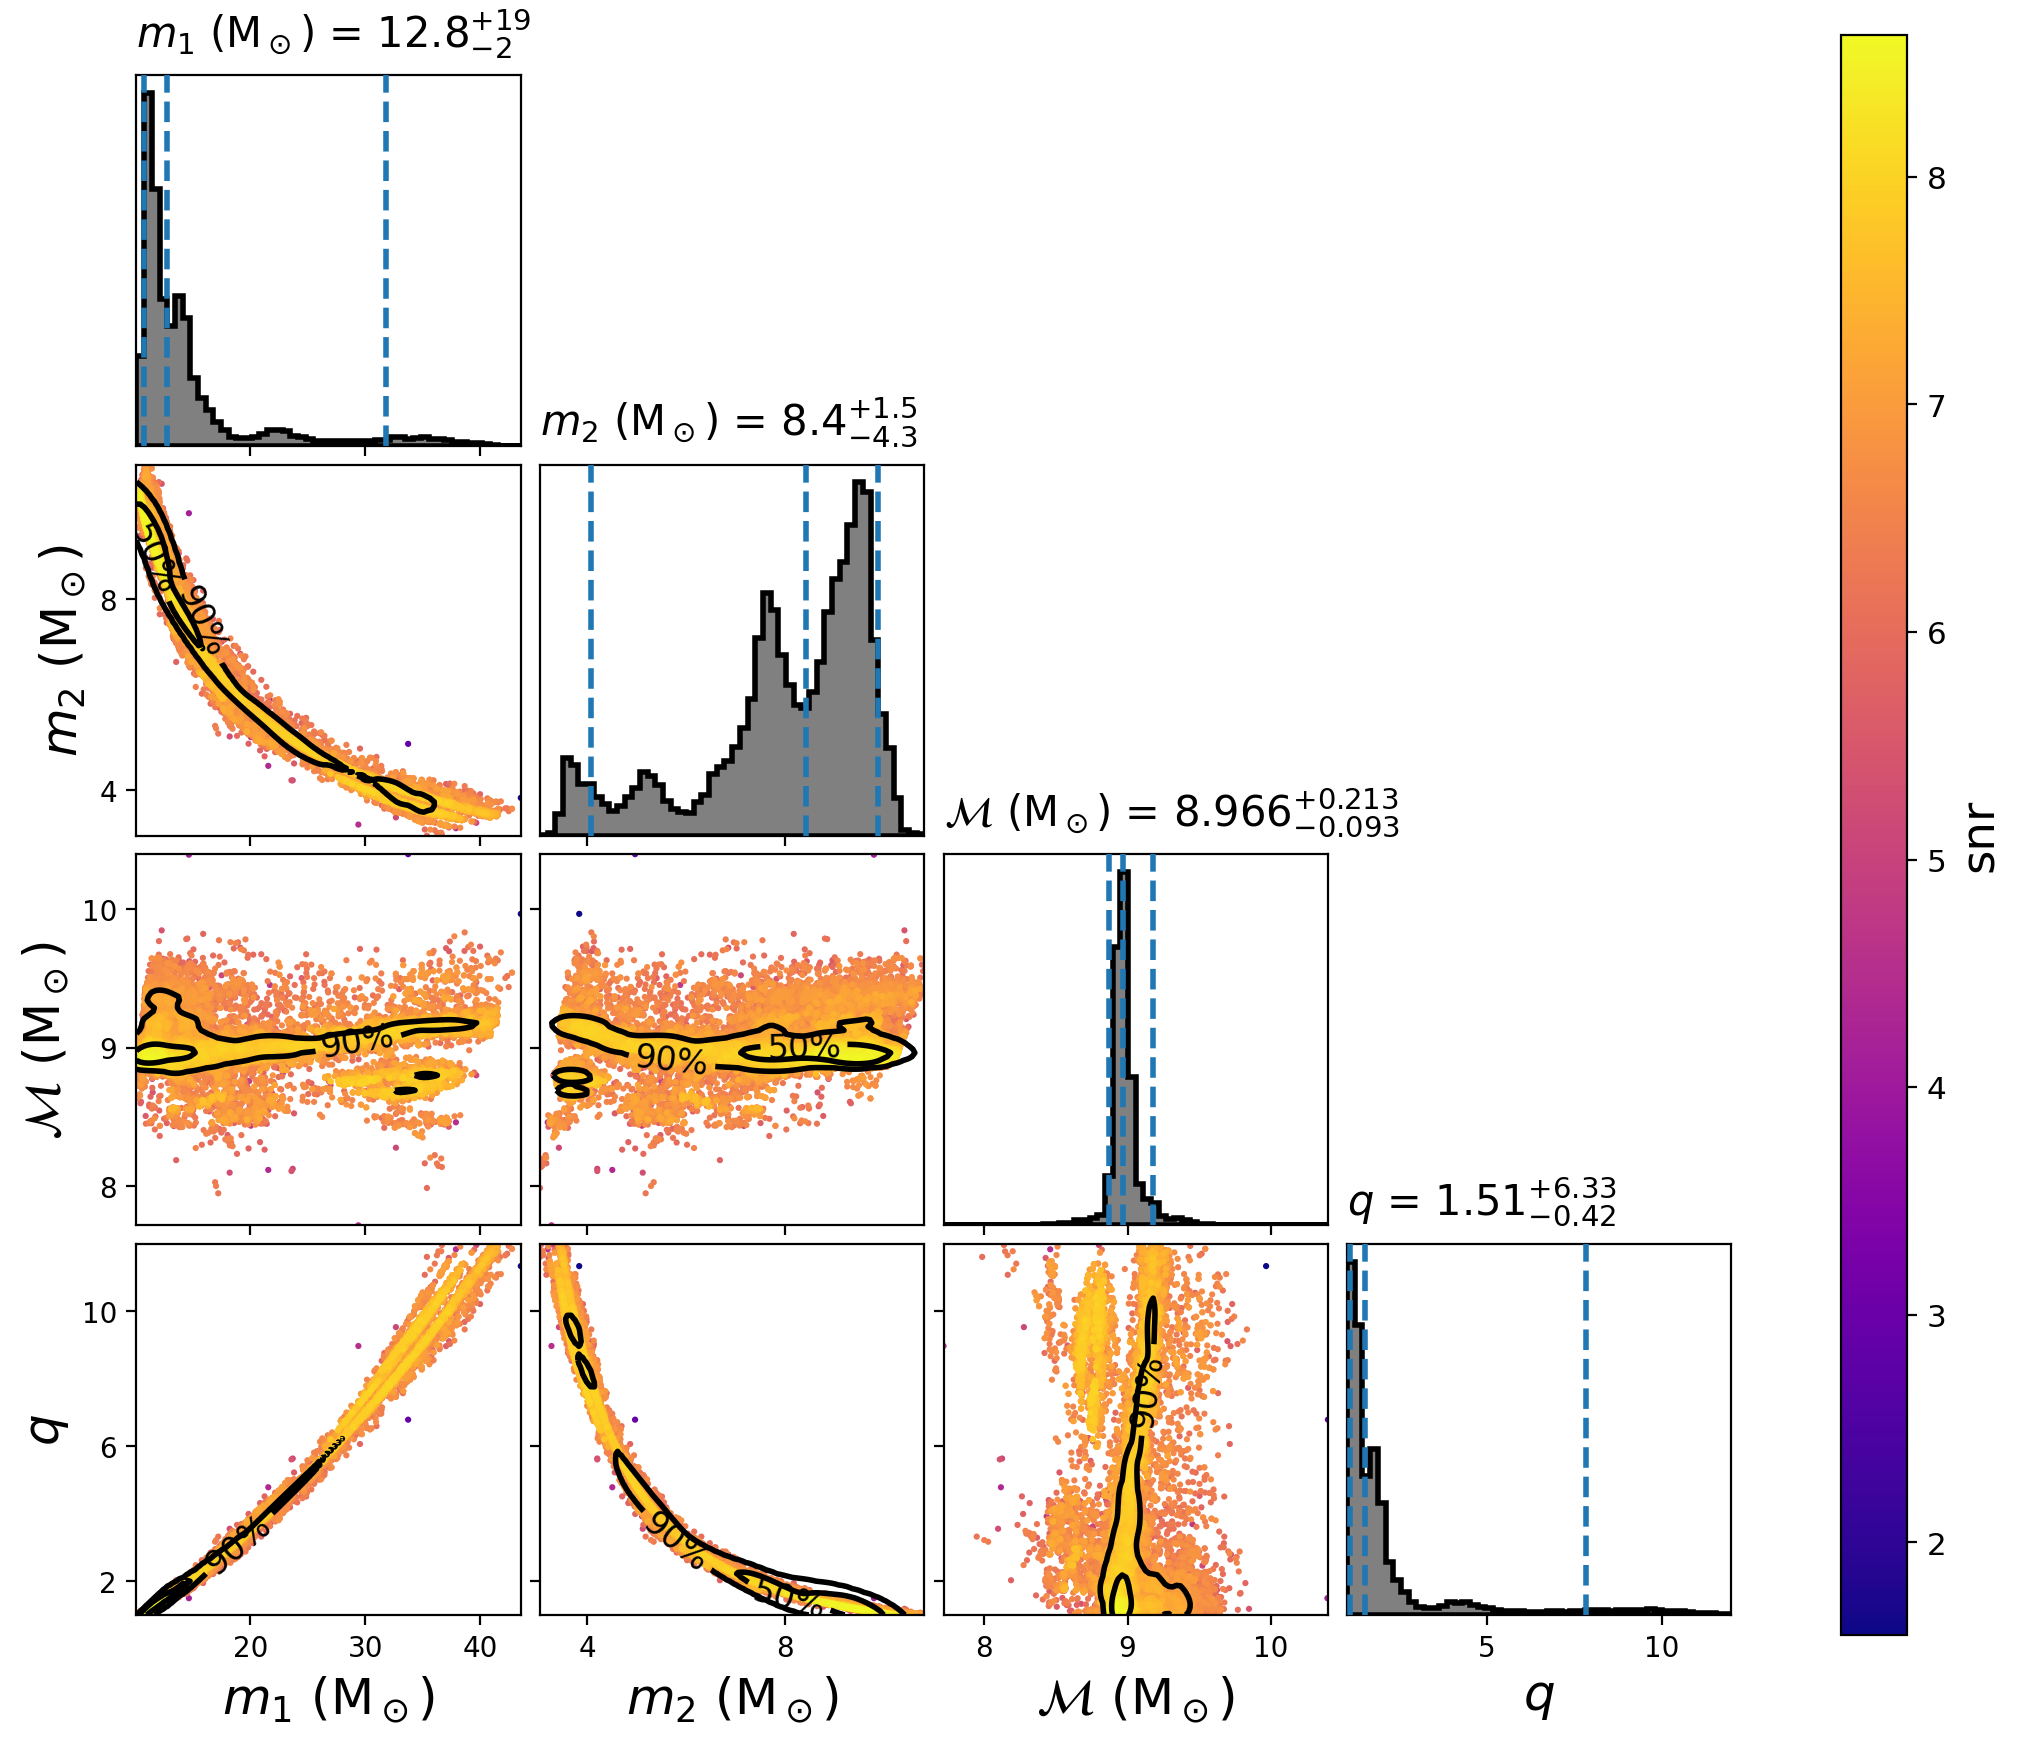
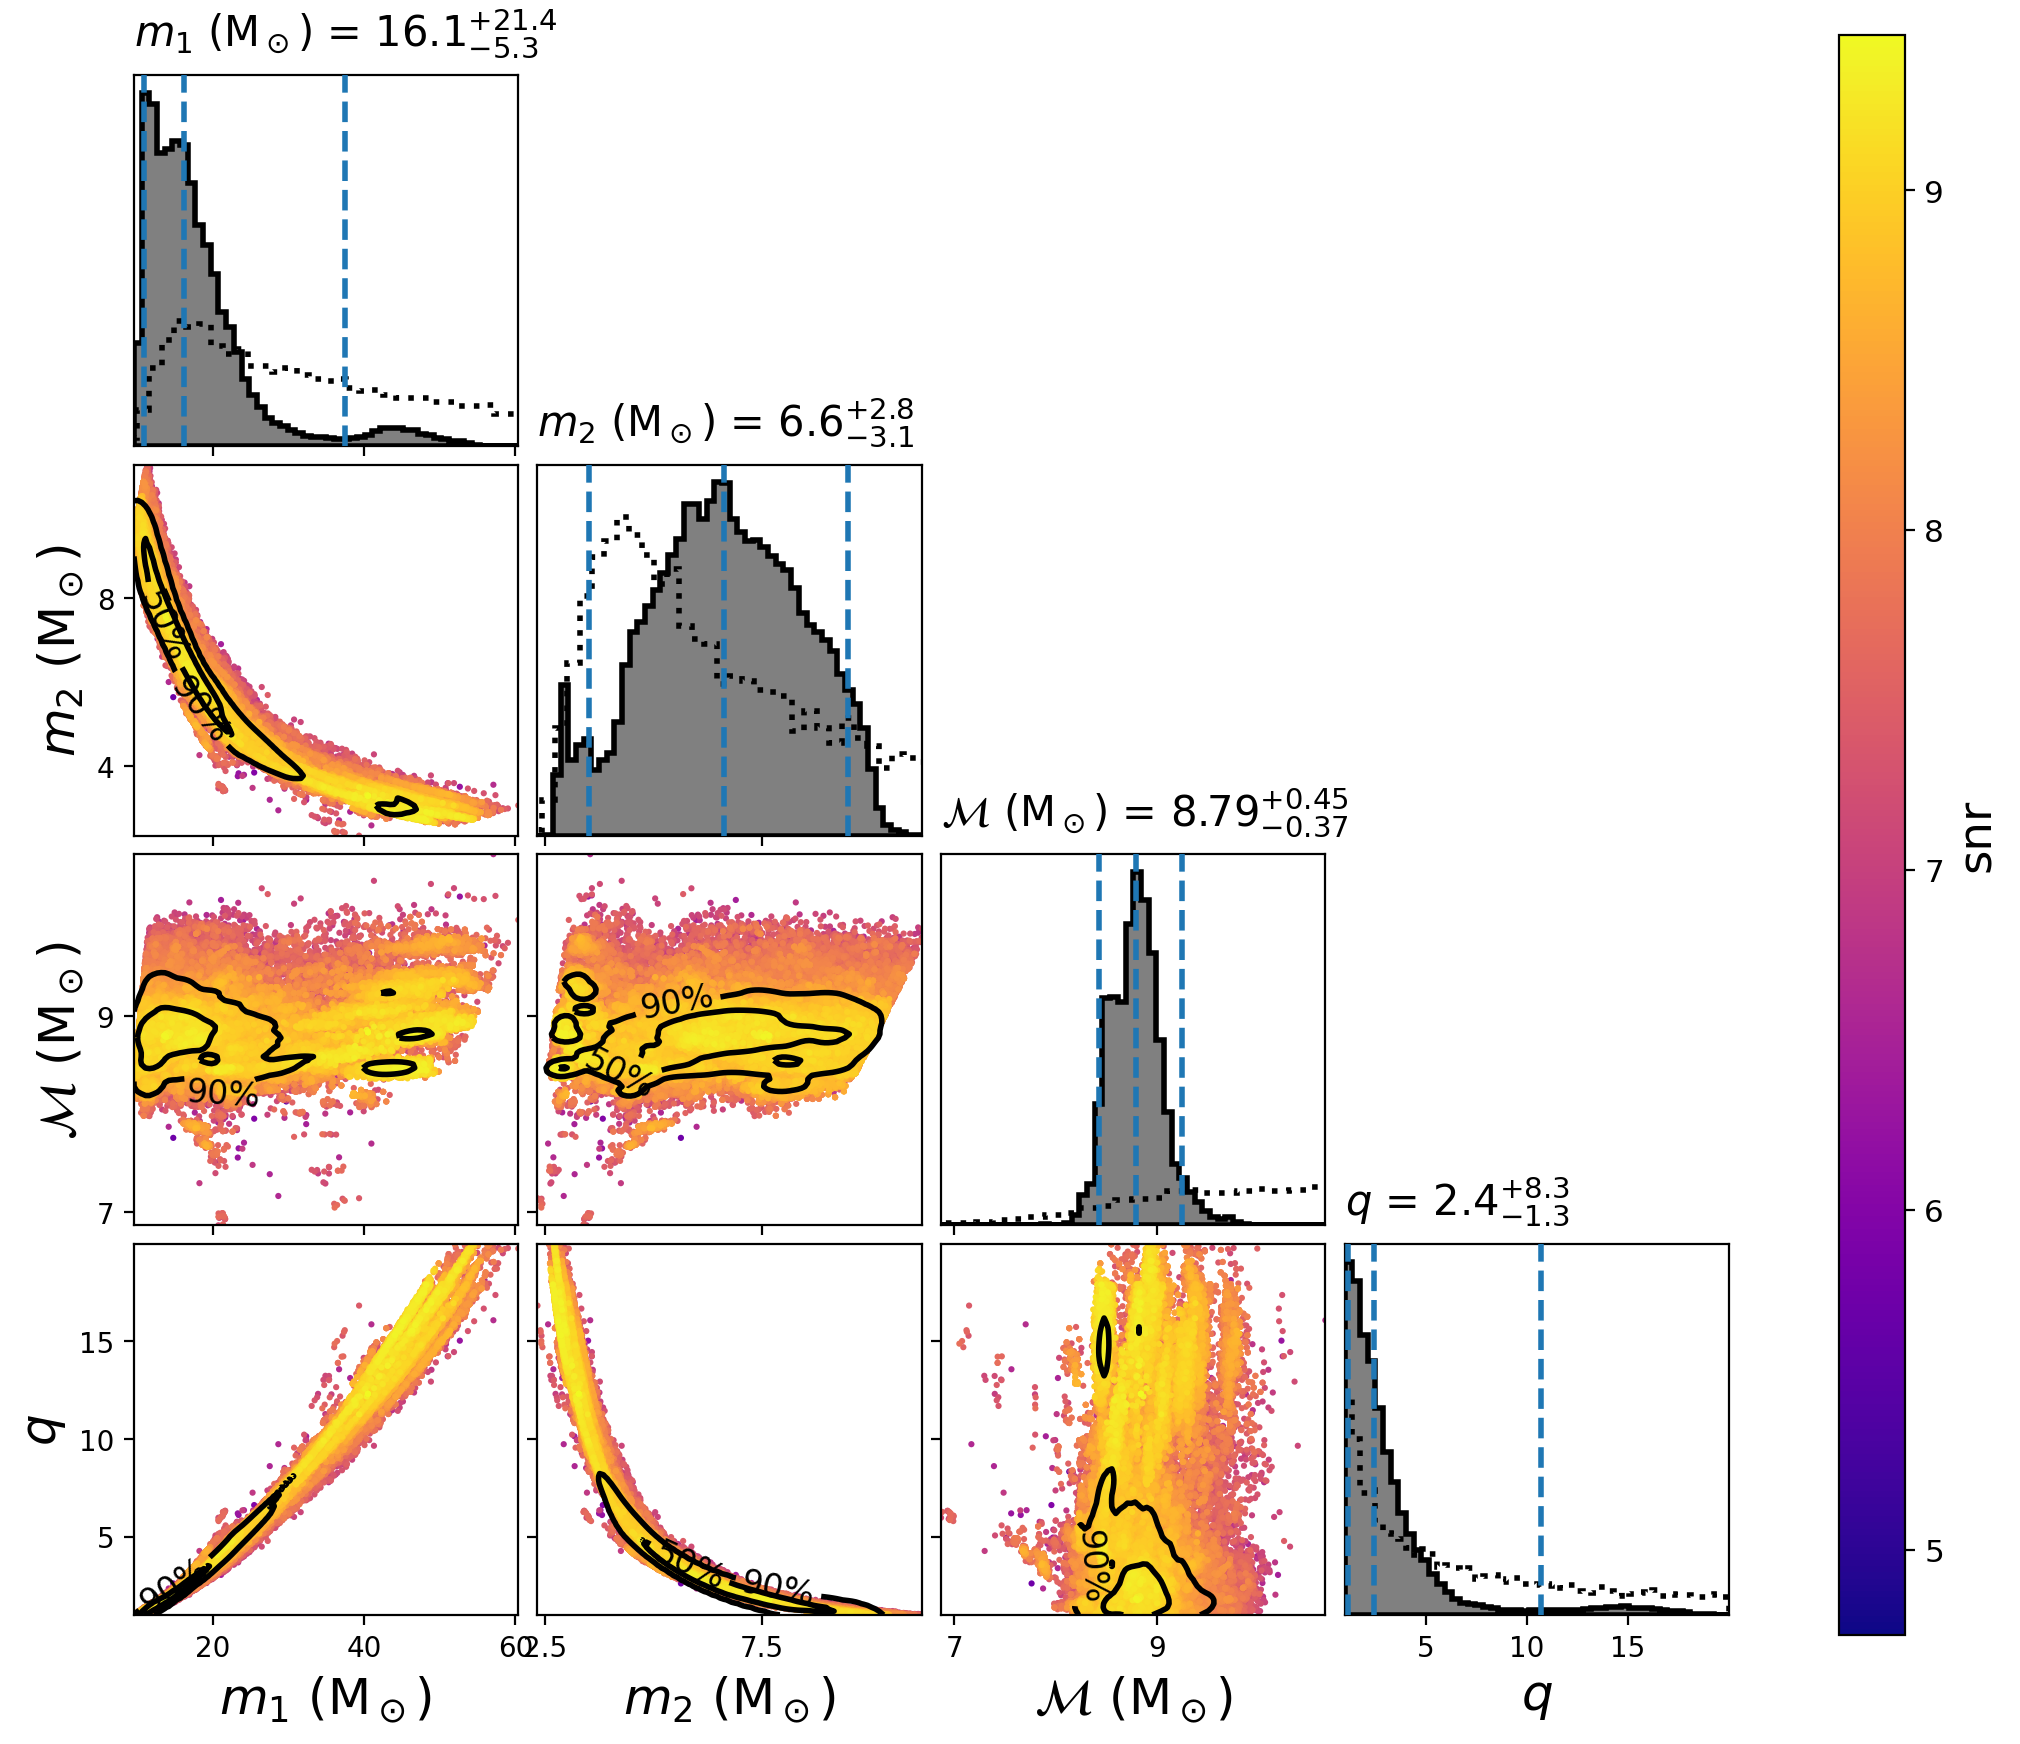
modified GW190725 plots

diff --git a/posteriors/H1L1V1-TABLE_SUMMARY_GW190725_174728-1126259200-400.html b/posteriors/H1L1V1-TABLE_SUMMARY_GW190725_174728-1126259200-400.html
@@ -1,10 +1,10 @@
-<div class=pycbc-meta key="cmd" value="/work/shilpa.kastha/src/3_ogc/pycbc/bin/pycbc_inference_table_summary --input-file H1L1V1-EXTRACT_POSTERIOR_GW190725_174728-1126259200-400.hdf --output-file H1L1V1-TABLE_SUMMARY_GW190725_174728-1126259200-400.html --parameters srcmass1 srcmass2 srcmchirp q_from_mass1_mass2(srcmass1, srcmass2):q chi_eff chi_p ra dec delta_tc distance redshift snr_from_loglr(loglikelihood-lognl):SNR --print-metadata trigger_time:$t_0$ analyzed_detectors:Detectors"></div><div class=pycbc-meta key="title" value="Parameter Estimates"></div><div class=pycbc-meta key="caption" value="Summary of parameter estimates. The 90-percent credible interval is the 50th +/- 95th/5th percentiles. The maximum posterior parameters are the parameters with the largest likelihood * prior. The maximum likelihood parameters are the parameters with the largest likelihood."></div><div class=pycbc-meta key="version" value="Version: 0.0a8146
+<div class=pycbc-meta key="cmd" value="/work/sumit.kumar/src/ve/python3.7/pycbc-dev/bin/pycbc_inference_table_summary --input-file H1L1V1-EXTRACT_POSTERIOR_GW190725_172728_H1_FLOW_41HZ_IMRPHENOMXPHM_NLIVE_20K_MPI-1126259200-400.hdf --output-file H1L1V1-TABLE_SUMMARY_GW190725_172728_H1_FLOW_41HZ_IMRPHENOMXPHM_NLIVE_20K_MPI-1126259200-400.html --parameters srcmass1 srcmass2 srcmchirp q_from_mass1_mass2(srcmass1, srcmass2):q chi_eff chi_p ra dec delta_tc distance redshift snr_from_loglr(loglikelihood-lognl):SNR --print-metadata trigger_time:$t_0$ analyzed_detectors:Detectors"></div><div class=pycbc-meta key="title" value="Parameter Estimates"></div><div class=pycbc-meta key="caption" value="Summary of parameter estimates. The 90-percent credible interval is the 50th +/- 95th/5th percentiles. The maximum posterior parameters are the parameters with the largest likelihood * prior. The maximum likelihood parameters are the parameters with the largest likelihood."></div><div class=pycbc-meta key="version" value="Version: 0.0a8165
 Branch: master
 Tag: None
-Id: 18f300e34b02cd197bdce4c4c7714fcb8b790794
+Id: cfc9de02b433e75794937cfdd634602fd9470832
 Builder: Unknown User &lt;&gt;
-Build date: 2021-06-02 09:53:35 +0000
-Repository status is UNCLEAN: Modified working tree"></div>
+Build date: 2021-06-23 12:03:02 +0000
+Repository status is CLEAN: All modifications committed"></div>
 <script type="text/x-mathjax-config">
   MathJax.Hub.Config({tex2jax: {inlineMath: [['$','$']]}});
 </script>
@@ -34,13 +34,13 @@ Repository status is UNCLEAN: Modified working tree"></div>
                     $m_1^{\rm{src}}~(\mathrm{M}_\odot)$
                 </td>
                 <td>
-                    $10.7^{+16.1}_{-1.5}$
+                    $13.4^{+17.4}_{-4.4}$
                 </td>
                 <td>
                     --
                 </td>
                 <td>
-                    $10$
+                    $34.8$
                 </td>
             </tr>
             <tr>
@@ -48,13 +48,13 @@ Repository status is UNCLEAN: Modified working tree"></div>
                     $m_2^{\rm{src}}~(\mathrm{M}_\odot)$
                 </td>
                 <td>
-                    $7^{+1.8}_{-3.6}$
+                    $5.5^{+2.4}_{-2.6}$
                 </td>
                 <td>
                     --
                 </td>
                 <td>
-                    $8.6$
+                    $2.8$
                 </td>
             </tr>
             <tr>
@@ -62,13 +62,13 @@ Repository status is UNCLEAN: Modified working tree"></div>
                     $\mathcal{M}^{\rm{src}}~(\mathrm{M}_\odot)$
                 </td>
                 <td>
-                    $7.72^{+0.44}_{-0.71}$
+                    $7.28^{+0.55}_{-0.46}$
                 </td>
                 <td>
                     --
                 </td>
                 <td>
-                    $8.11$
+                    $7.59$
                 </td>
             </tr>
             <tr>
@@ -76,13 +76,13 @@ Repository status is UNCLEAN: Modified working tree"></div>
                     $q$
                 </td>
                 <td>
-                    $1.51^{+6.33}_{-0.42}$
+                    $2.4^{+8.3}_{-1.3}$
                 </td>
                 <td>
                     --
                 </td>
                 <td>
-                    $1.16$
+                    $12.3$
                 </td>
             </tr>
             <tr>
@@ -90,13 +90,13 @@ Repository status is UNCLEAN: Modified working tree"></div>
                     $\chi_\mathrm{eff}$
                 </td>
                 <td>
-                    $-0.069^{+0.438}_{-0.095}$
+                    $-0.02^{+0.48}_{-0.35}$
                 </td>
                 <td>
                     --
                 </td>
                 <td>
-                    $-0.154$
+                    $0.53$
                 </td>
             </tr>
             <tr>
@@ -104,13 +104,13 @@ Repository status is UNCLEAN: Modified working tree"></div>
                     $\chi_p$
                 </td>
                 <td>
-                    $0.44^{+0.39}_{-0.34}$
+                    $0.39^{+0.44}_{-0.28}$
                 </td>
                 <td>
                     --
                 </td>
                 <td>
-                    $0.85$
+                    $0.45$
                 </td>
             </tr>
             <tr>
@@ -118,13 +118,13 @@ Repository status is UNCLEAN: Modified working tree"></div>
                     $\alpha$
                 </td>
                 <td>
-                    $2.5^{+3}_{-1.1}$
+                    $4.94^{+0.60}_{-4.67}$
                 </td>
                 <td>
                     --
                 </td>
                 <td>
-                    $5.2$
+                    $5.00$
                 </td>
             </tr>
             <tr>
@@ -132,13 +132,13 @@ Repository status is UNCLEAN: Modified working tree"></div>
                     $\delta$
                 </td>
                 <td>
-                    $0.14^{+0.59}_{-0.62}$
+                    $-0.27^{+1.31}_{-0.47}$
                 </td>
                 <td>
                     --
                 </td>
                 <td>
-                    $-0.04$
+                    $-0.11$
                 </td>
             </tr>
             <tr>
@@ -146,13 +146,13 @@ Repository status is UNCLEAN: Modified working tree"></div>
                     $\Delta t_c~(\rm{s})$
                 </td>
                 <td>
-                    $0.0162^{+0.0090}_{-0.0315}$
+                    $-0.0151^{+0.0380}_{-0.0050}$
                 </td>
                 <td>
                     --
                 </td>
                 <td>
-                    $-0.0148$
+                    $-0.0167$
                 </td>
             </tr>
             <tr>
@@ -160,13 +160,13 @@ Repository status is UNCLEAN: Modified working tree"></div>
                     $d_L$ (Mpc)
                 </td>
                 <td>
-                    $800^{+690}_{-320}$
+                    $1040^{+490}_{-390}$
                 </td>
                 <td>
                     --
                 </td>
                 <td>
-                    $480$
+                    $810$
                 </td>
             </tr>
             <tr>
@@ -174,13 +174,13 @@ Repository status is UNCLEAN: Modified working tree"></div>
                     $z$
                 </td>
                 <td>
-                    $0.162^{+0.120}_{-0.061}$
+                    $0.204^{+0.083}_{-0.071}$
                 </td>
                 <td>
                     --
                 </td>
                 <td>
-                    $0.100$
+                    $0.164$
                 </td>
             </tr>
             <tr>
@@ -188,17 +188,17 @@ Repository status is UNCLEAN: Modified working tree"></div>
                     SNR
                 </td>
                 <td>
-                    $7.50^{+0.69}_{-0.86}$
+                    $8.36^{+0.50}_{-0.71}$
                 </td>
                 <td>
                     --
                 </td>
                 <td>
-                    $8.62$
+                    $9.46$
                 </td>
             </tr>
     </table>
 <h4><b>$t_0$:</b> 1248112066.462</h4>
-<h4><b>Detectors:</b> V1, L1</h4>
-<h4><b>Number of posterior samples:</b> 119534</h4><br />
+<h4><b>Detectors:</b> H1, L1, V1</h4>
+<h4><b>Number of posterior samples:</b> 624672</h4><br />
 <br />
